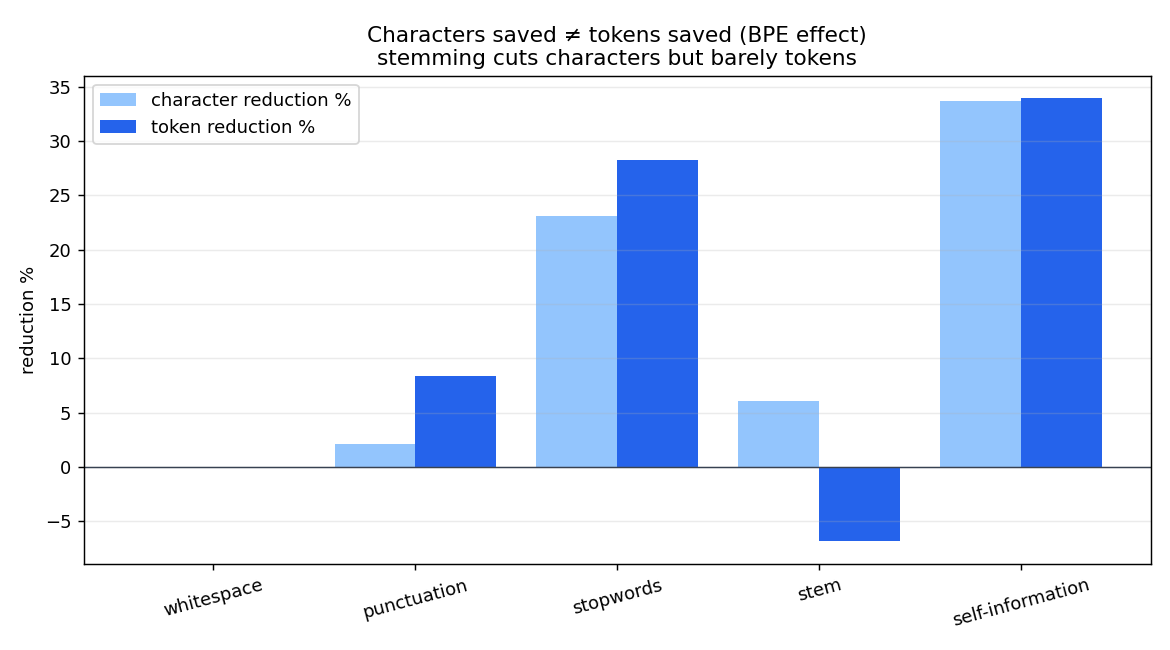
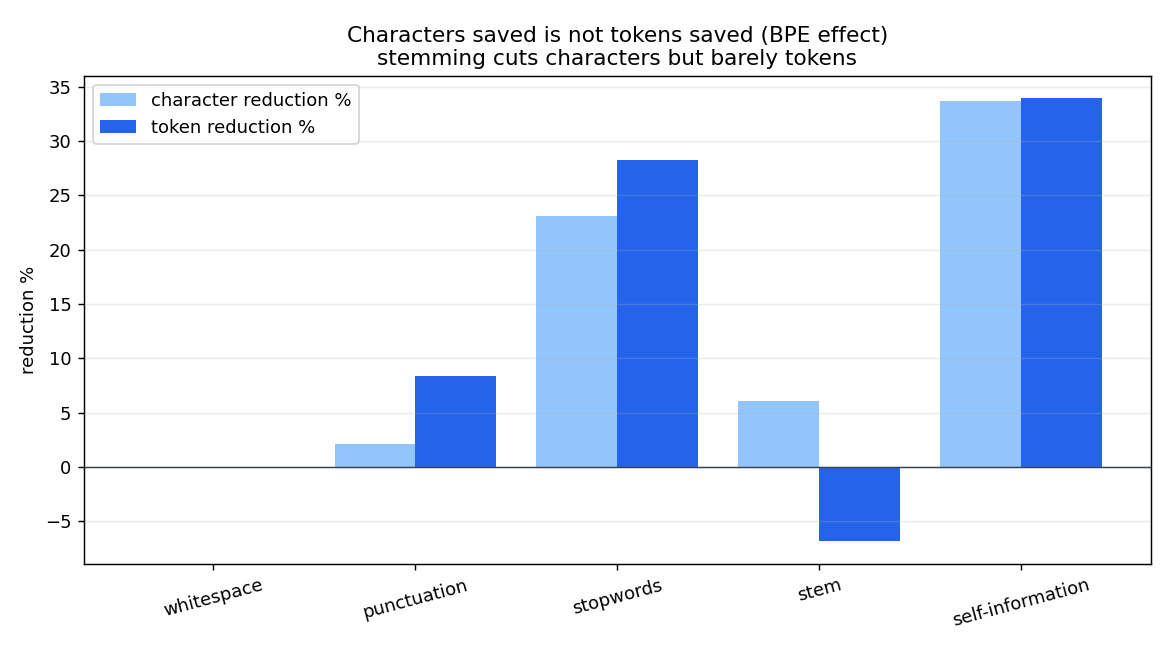
ci: add ruff + mypy quality gate
Add lint (ruff) and type-check (mypy) to CI and the dev workflow; fix the
issues surfaced (frontier annotation, unused var, long lines, semicolon
statements). Badges added.

Changed region(s): [[0.3077, 0.0308, 0.7692, 0.0615]]

diff --git a/src/ccl/report.py b/src/ccl/report.py
@@ -73,7 +73,7 @@ def _plot_pareto(results: list[Result]) -> None:
         ax.annotate(r.method, (r.token_reduction, r.preservation),
                     textcoords="offset points", xytext=(6, 4), fontsize=8)
     # Pareto frontier: points not dominated on both axes.
-    frontier = []
+    frontier: list[Result] = []
     for r in sorted(pts, key=lambda x: x.token_reduction, reverse=True):
         if all(r.preservation >= f.preservation for f in frontier):
             frontier.append(r)
@@ -86,7 +86,9 @@ def _plot_pareto(results: list[Result]) -> None:
     ax.set_ylabel("Context preservation % (higher = more faithful)")
     ax.set_title("Compression methods: efficiency vs. fidelity")
     ax.grid(alpha=0.3)
-    fig.tight_layout(); fig.savefig(FIG_DIR / "pareto.png", dpi=130); plt.close(fig)
+    fig.tight_layout()
+    fig.savefig(FIG_DIR / "pareto.png", dpi=130)
+    plt.close(fig)
 
 
 def _plot_token_vs_char() -> None:
@@ -99,8 +101,10 @@ def _plot_token_vs_char() -> None:
         co = ct = oo = ot = 0
         for it in items:
             c = comp.compress(it.passage)
-            oo += len(it.passage); co += len(c)
-            ot += count_tokens(it.passage); ct += count_tokens(c)
+            oo += len(it.passage)
+            co += len(c)
+            ot += count_tokens(it.passage)
+            ct += count_tokens(c)
         char_red.append((1 - co / oo) * 100)
         tok_red.append((1 - ct / ot) * 100)
 
@@ -111,8 +115,15 @@ def _plot_token_vs_char() -> None:
     ax.bar(x - 0.2, char_red, 0.4, label="character reduction %", color="#93c5fd")
     ax.bar(x + 0.2, tok_red, 0.4, label="token reduction %", color="#2563eb")
     ax.axhline(0, color="#374151", lw=0.8)
-    ax.set_xticks(x); ax.set_xticklabels(methods, rotation=15)
+    ax.set_xticks(x)
+    ax.set_xticklabels(methods, rotation=15)
     ax.set_ylabel("reduction %")
-    ax.set_title("Characters saved ≠ tokens saved (BPE effect)\nstemming cuts characters but barely tokens")
-    ax.legend(); ax.grid(alpha=0.25, axis="y")
-    fig.tight_layout(); fig.savefig(FIG_DIR / "token_vs_char.png", dpi=130); plt.close(fig)
+    ax.set_title(
+        "Characters saved is not tokens saved (BPE effect)\n"
+        "stemming cuts characters but barely tokens"
+    )
+    ax.legend()
+    ax.grid(alpha=0.25, axis="y")
+    fig.tight_layout()
+    fig.savefig(FIG_DIR / "token_vs_char.png", dpi=130)
+    plt.close(fig)

diff --git a/src/ccl/compressors/base.py b/src/ccl/compressors/base.py
@@ -13,7 +13,7 @@ in LITERATURE.md rather than implemented.
 
 from __future__ import annotations
 
-_REGISTRY: dict[str, "Compressor"] = {}
+_REGISTRY: dict[str, Compressor] = {}
 
 
 class Compressor:
@@ -42,10 +42,10 @@ def register(cls: type[Compressor]) -> type[Compressor]:
     return cls
 
 
-def get(name: str) -> "Compressor":
+def get(name: str) -> Compressor:
     return _REGISTRY[name]
 
 
-def available() -> list["Compressor"]:
+def available() -> list[Compressor]:
     """All registered compressors, baseline first then alphabetical."""
     return sorted(_REGISTRY.values(), key=lambda c: (c.name != "identity", c.name))

diff --git a/src/ccl/cli.py b/src/ccl/cli.py
@@ -26,8 +26,8 @@ def main(argv: list[str] | None = None) -> int:
     pc.add_argument("--method", "-m", required=True)
 
     pb = sub.add_parser("bench", help="Run the full benchmark.")
-    pb.add_argument("--embedding", action="store_true", help="Add embedding-cosine metric (needs embed extra).")
-    pb.add_argument("--llm-eval", action="store_true", help="Add Claude task-accuracy (needs llm extra + key).")
+    pb.add_argument("--embedding", action="store_true", help="Add embedding-cosine metric (embed extra).")
+    pb.add_argument("--llm-eval", action="store_true", help="Add Claude task-accuracy (llm extra + key).")
     pb.add_argument("--runs", type=int, default=3, help="LLM eval passes to average (default 3).")
     pb.add_argument("--methods", help="Comma-separated subset of method names.")
 

diff --git a/src/ccl/compressors/__init__.py b/src/ccl/compressors/__init__.py
@@ -1,6 +1,6 @@
 """Importing this package registers every built-in compressor."""
 
-from . import extractive, external, formats, lexical  # noqa: F401
+from . import external, extractive, formats, lexical  # noqa: F401
 from .base import Compressor, available, get, register
 
 __all__ = ["Compressor", "available", "get", "register"]

diff --git a/src/ccl/metrics.py b/src/ccl/metrics.py
@@ -68,7 +68,7 @@ def rouge_l_f1(original: str, compressed: str) -> float:
 def embedding_cosine_pct(original: str, compressed: str) -> float | None:
     """Optional: sentence-embedding cosine similarity. Needs the `embed` extra."""
     try:
-        from sentence_transformers import SentenceTransformer, util
+        from sentence_transformers import util
     except Exception:
         return None
     model = _embed_model()

diff --git a/src/ccl/compressors/extractive.py b/src/ccl/compressors/extractive.py
@@ -86,7 +86,6 @@ class TextRankSelector(Compressor):
         for _ in range(30):  # power iteration
             new = []
             for i in range(n):
-                tot = sum(sim[i])
                 inbound = sum(sim[i][j] / (sum(sim[j]) or 1e-9) * scores[j] for j in range(n) if j != i)
                 new.append((1 - d) + d * inbound)
             scores = new

diff --git a/src/ccl/compressors/formats.py b/src/ccl/compressors/formats.py
@@ -12,7 +12,6 @@ import re
 
 from .base import Compressor, register
 from .extractive import _split_sentences
-from .lexical import _join
 
 # Leading connective phrases that add no information at the start of a sentence.
 _FILLER_PREFIX = re.compile(

diff --git a/src/ccl/eval_llm.py b/src/ccl/eval_llm.py
@@ -9,7 +9,6 @@ F1 ≥ 0.5). Requires `pip install '.[llm]'` and ANTHROPIC_API_KEY.
 
 from __future__ import annotations
 
-import re
 import string
 
 from .compressors.base import Compressor

diff --git a/README.md b/README.md
@@ -2,6 +2,8 @@
 
 [![CI](https://github.com/marc-albert-global/context-compression-lab/actions/workflows/ci.yml/badge.svg)](https://github.com/marc-albert-global/context-compression-lab/actions/workflows/ci.yml)
 ![Python](https://img.shields.io/badge/python-3.9%2B-blue)
+![lint: ruff](https://img.shields.io/badge/lint-ruff-261230)
+![types: mypy](https://img.shields.io/badge/types-mypy-2a6db2)
 ![License: MIT](https://img.shields.io/badge/license-MIT-green)
 
 **Cut the token bill of a GenAI application without quietly breaking it.** This
@@ -127,7 +129,7 @@ ccl methods                                  # list compressors
 ccl compress -m stopwords "The cat sat on the mat in the warm afternoon sun."
 ccl bench                                    # full benchmark -> reports/ + figures
 ccl cost --volume 10000000                   # project savings at your scale
-pytest -q                                    # 11 tests, offline
+ruff check src tests && mypy && pytest -q    # lint + type-check + 11 tests, offline
 ```
 
 ## Add a method (the continuous-research part)